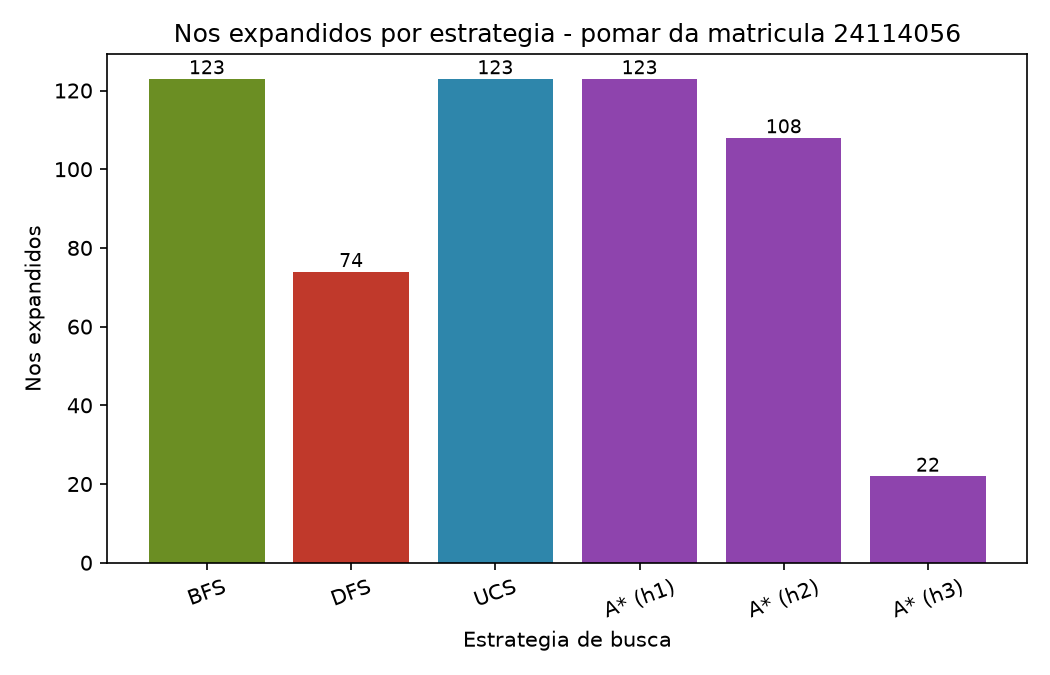
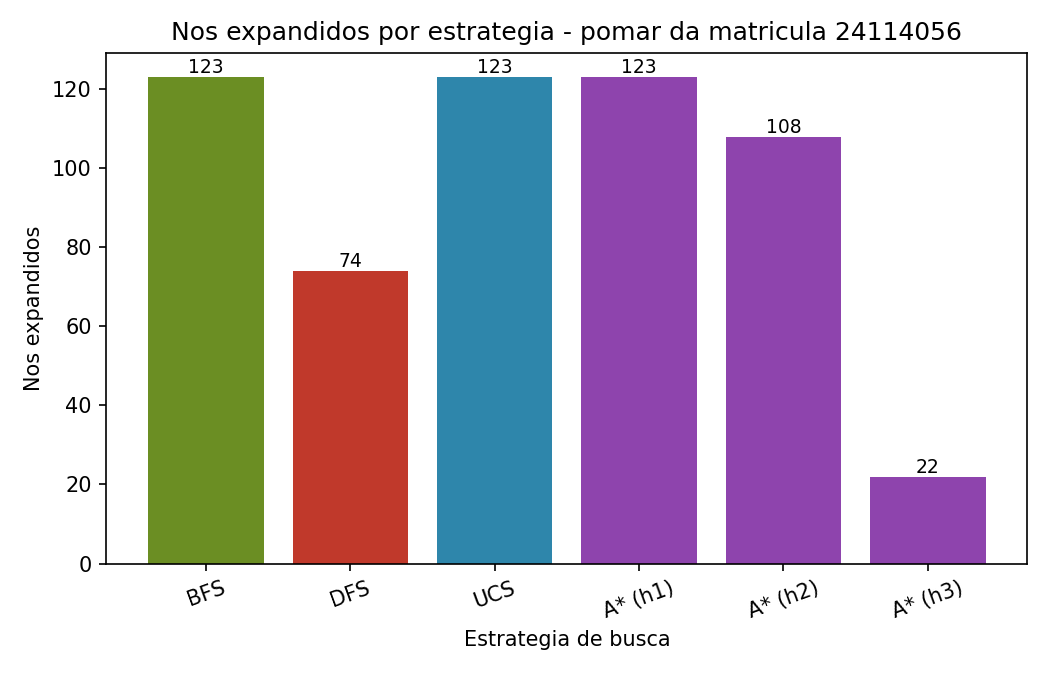
fix: heuristica vazia no CSV para buscas cegas e regenera resultados

diff --git a/src/main.py b/src/main.py
@@ -37,7 +37,7 @@ def main(matricula):
         r = fn(grade)
         dt_ms = (time.perf_counter() - t0) * 1000
         resultados_cegos[nome] = r
-        linhas_csv.append([nome, "-", r["custo"], r["passos"], r["nos_expandidos"],
+        linhas_csv.append([nome, "", r["custo"], r["passos"], r["nos_expandidos"],
                             r["fronteira_max"], round(dt_ms, 3)])
         print(f"{nome}: custo={r['custo']} passos={r['passos']} "
               f"nos_expandidos={r['nos_expandidos']} fronteira_max={r['fronteira_max']}")
